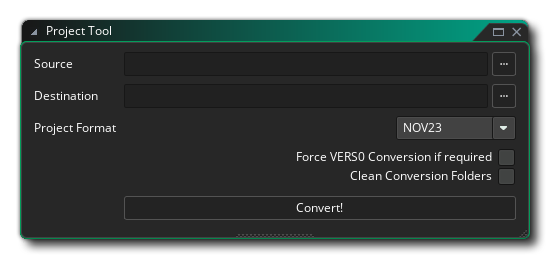
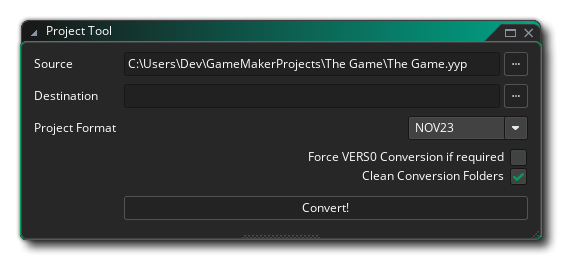
docs(general): Source field value should default to the current project's path YoYoGames/GameMaker-Bugs#11446
Updated the screenshot and the description of the Source field

Changed region(s): [[0.0309, 0.0615, 0.9891, 0.9846], [0.2164, 0.2154, 0.8345, 0.2769]]

diff --git a/Manual/contents/IDE_Tools/Project_Tool.htm b/Manual/contents/IDE_Tools/Project_Tool.htm
@@ -20,7 +20,7 @@
   <p><img alt="Project Tool" class="center" src="../assets/Images/IDE Tools/Project_Tool.png" style="cursor: nesw-resize;" /></p>
   <p>The tool window contains the following fields:</p>
   <ul class="colour">
-    <li><strong>Source</strong> - This field contains the path to the source project or package file to convert. Paste a valid file path here or click the <img class="icon" src="../assets/Images/IDE Tools/Project_Tool_Select_File.png" /> button to bring up a file selector.</li>
+    <li><strong>Source</strong> - This field contains the path to the source project or package file to convert. Paste a valid file path here or click the <img class="icon" src="../assets/Images/IDE Tools/Project_Tool_Select_File.png" /> button to bring up a file selector. By default this field contains the path to the current project file.</li>
     <li><strong>Destination</strong> - This field contains the path to the destination project to create. Paste a valid path here or click the <img class="icon" src="../assets/Images/IDE Tools/Project_Tool_Select_File.png" /> button to bring up a file selector. This field can be empty when the source project is a <span data-keyref="Const_Ext_Project">.yyp</span> file, in which case <span data-field="title" data-format="default">Project Tool</span> does an in-place conversion (i.e. it converts the project in the source directory). It must be filled out, however, when the source project is a package file. <span data-field="title" data-format="default">Project Tool</span> shows the following message if you attempt to convert a package with an empty destination path: <img alt="No Destination Project Selected" class="center" src="../assets/Images/IDE Tools/Project_Tool_No_Destination_Selected.png" /></li>
     <li><strong>Project Format</strong> - This drop-down list contains the available project formats that you can convert to. The following formats are available: 
       <ul>
